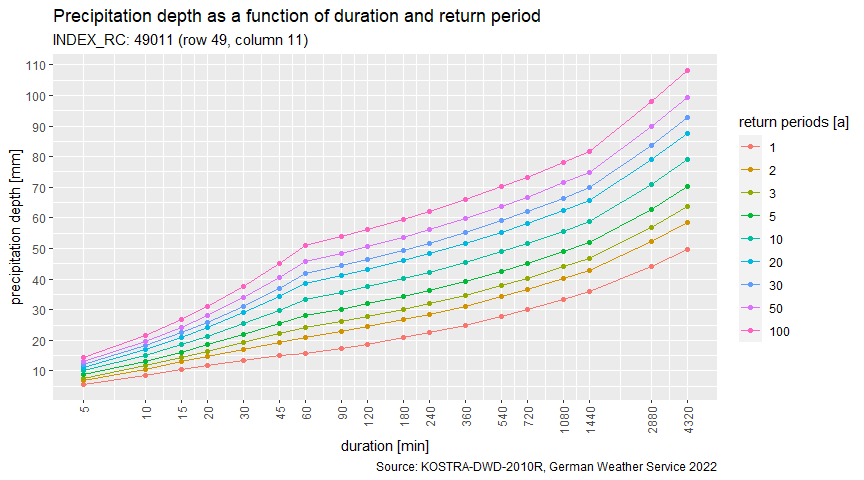
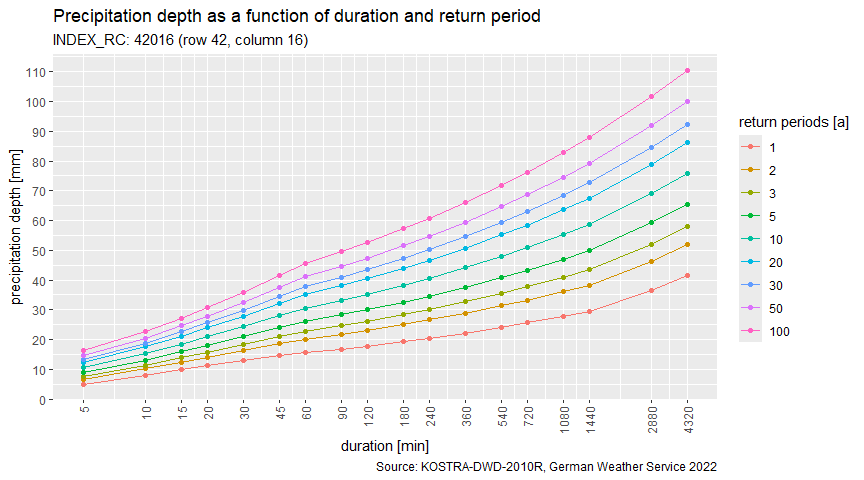
doc(*): index
fixes #58

diff --git a/README.md b/README.md
@@ -48,7 +48,7 @@ and load the package via
 
 ``` r
 library(kostra2010R)
-#> 0.11.3
+#> 0.12.1
 ```
 
 ## Getting started
@@ -62,8 +62,8 @@ used to generate the necessary “INDEX_RC” field.
 
 ``` r
 # Generate "INDEX_RC" based on row and column information.
-idx_build(row = 49, col = 11)
-#> [1] "49011"
+idx_build(row = 42, col = 16)
+#> [1] "42016"
 ```
 
 If you wanted to check whether this constructed “INDEX_RC” field is
@@ -73,7 +73,7 @@ function.
 
 ``` r
 # Is the following "INDEX_RC" entry present in the dataset?
-idx_exists("49011")
+idx_exists("42016")
 #> [1] TRUE
 ```
 
@@ -115,9 +115,9 @@ p3
 #> Geometry set for 1 feature 
 #> Geometry type: POINT
 #> Dimension:     XY
-#> Bounding box:  xmin: 6.784486 ymin: 51.23912 xmax: 6.784486 ymax: 51.23912
+#> Bounding box:  xmin: 6.784487 ymin: 51.23912 xmax: 6.784487 ymax: 51.23912
 #> Geodetic CRS:  WGS 84
-#> POINT (6.784486 51.23912)
+#> POINT (6.784487 51.23912)
 
 p4 <- get_centroid("Freiburg im Breisgau")
 p4
@@ -164,43 +164,43 @@ specified.
 ``` r
 # Build a tibble containing statistical precipitation depths as a function of 
 # duration and return periods for the grid cell specified.
-kostra <- get_stats("49011")
+stats <- get_stats("42016")
 
-kostra
+stats
 #> # A tibble: 18 × 12
 #>    D_min D_hour D_day HN_001A HN_002A HN_003A HN_005A HN_010A HN_020A HN_030A
 #>    <dbl>  <dbl> <dbl>   <dbl>   <dbl>   <dbl>   <dbl>   <dbl>   <dbl>   <dbl>
-#>  1     5   NA      NA     5.6     6.9     7.7     8.7    10      11.3    12.1
-#>  2    10   NA      NA     8.6    10.6    11.7    13.1    15.1    17.1    18.2
-#>  3    15   NA      NA    10.5    13      14.4    16.2    18.6    21.1    22.5
-#>  4    20   NA      NA    11.8    14.7    16.4    18.5    21.4    24.3    25.9
-#>  5    30   NA      NA    13.5    17.1    19.2    21.9    25.5    29.1    31.2
-#>  6    45   NA      NA    14.9    19.4    22.1    25.4    29.9    34.4    37.1
-#>  7    60    1      NA    15.7    21      24.1    28      33.3    38.7    41.8
-#>  8    90    1.5    NA    17.4    22.9    26.2    30.2    35.7    41.2    44.4
-#>  9   120    2      NA    18.8    24.4    27.7    31.9    37.5    43.1    46.4
-#> 10   180    3      NA    20.9    26.7    30.1    34.4    40.2    46      49.4
-#> 11   240    4      NA    22.5    28.5    32      36.4    42.3    48.3    51.8
-#> 12   360    6      NA    25      31.2    34.8    39.3    45.5    51.7    55.3
-#> 13   540    9      NA    27.8    34.2    37.9    42.6    49      55.3    59.1
-#> 14   720   12      NA    30      36.5    40.3    45.1    51.6    58.2    62  
-#> 15  1080   18      NA    33.3    40.1    44      49      55.7    62.5    66.4
-#> 16  1440   24       1    35.9    42.8    46.8    51.9    58.8    65.8    69.8
-#> 17  2880   48       2    44.1    52.2    57      62.9    71      79.1    83.8
-#> 18  4320   72       3    49.8    58.6    63.7    70.2    79      87.7    92.9
+#>  1     5   NA      NA     4.9     6.6     7.6     8.9    10.6    12.3    13.3
+#>  2    10   NA      NA     7.9    10.1    11.4    13.1    15.3    17.5    18.8
+#>  3    15   NA      NA     9.8    12.4    14      15.9    18.5    21.1    22.7
+#>  4    20   NA      NA    11.2    14.1    15.8    18      20.9    23.9    25.6
+#>  5    30   NA      NA    13      16.4    18.4    21      24.4    27.9    29.9
+#>  6    45   NA      NA    14.6    18.6    21      23.9    28      32      34.4
+#>  7    60    1      NA    15.5    20      22.7    26      30.6    35.1    37.7
+#>  8    90    1.5    NA    16.8    21.8    24.6    28.3    33.2    38.1    41  
+#>  9   120    2      NA    17.8    23.1    26.1    30      35.2    40.5    43.5
+#> 10   180    3      NA    19.3    25      28.4    32.6    38.3    44      47.3
+#> 11   240    4      NA    20.5    26.6    30.1    34.6    40.6    46.7    50.2
+#> 12   360    6      NA    22.2    28.8    32.7    37.6    44.1    50.7    54.6
+#> 13   540    9      NA    24.1    31.3    35.5    40.8    48      55.2    59.4
+#> 14   720   12      NA    25.6    33.2    37.7    43.3    50.9    58.5    63  
+#> 15  1080   18      NA    27.7    36      40.9    47      55.3    63.6    68.5
+#> 16  1440   24       1    29.4    38.2    43.4    49.9    58.7    67.5    72.7
+#> 17  2880   48       2    36.5    46.3    52      59.3    69.1    78.9    84.6
+#> 18  4320   72       3    41.4    51.8    57.9    65.5    75.9    86.3    92.4
 #> # ℹ 2 more variables: HN_050A <dbl>, HN_100A <dbl>
 ```
 
 Some describing attributes have been assigned to the tibble.
 
 ``` r
-attr(kostra, "id")
-#> [1] "49011"
-attr(kostra, "period")
+attr(stats, "id")
+#> [1] "42016"
+attr(stats, "period")
 #> [1] "1951-01-01 +01" "2010-12-31 +01"
-attr(kostra, "returnperiods_a")
+attr(stats, "returnperiods_a")
 #> [1]   1   2   3   5  10  20  30  50 100
-attr(kostra, "source")
+attr(stats, "source")
 #> [1] "KOSTRA-DWD-2010R"
 ```
 
@@ -214,8 +214,8 @@ function helping you out.
 ``` r
 # So we are interested in the rainfall amount [mm] for an event lasting 240 min 
 # with a return period of 100 a.
-get_depth(kostra, d = 240, tn = 100)
-#> 62.1 [mm]
+get_depth(stats, d = 240, tn = 100)
+#> 60.7 [mm]
 ```
 
 In order to respect statistical uncertainties, as proposed in Malitz &
@@ -225,9 +225,9 @@ around the single value above.
 
 ``` r
 # Same data, but with uncertainties considered.
-get_depth(kostra, d = 240, tn = 100, uc = TRUE)
+get_depth(stats, d = 240, tn = 100, uc = TRUE)
 #> Units: [mm]
-#> [1] 49.7 74.5
+#> [1] 48.6 72.8
 ```
 
 If you need precipitation yield values \[l/(s\*ha)\] instead of
@@ -248,8 +248,8 @@ Finally, we want to determine the return period according to the dataset
 for a precipitation depth and duration given.
 
 ``` r
-# Let's assume we measured 72.3 mm in 24 h.
-get_returnp(kostra, hn = 72.3, d = 1440)
+# Let's assume we measured 75.2 mm in 24 h.
+get_returnp(stats, hn = 75.2, d = 1440)
 #> Units: [a]
 #> [1] 30 50
 ```
@@ -262,21 +262,21 @@ The following edge cases are to be mentioned:
 
 ``` r
 # 1) In case a class boundary is hit, the return period is replicated.
-get_returnp(kostra, hn = 42.8, d = 1440)
+get_returnp(stats, hn = 38.2, d = 1440)
 #> Units: [a]
 #> [1] 2 2
 ```
 
 ``` r
 # 2) In case the return period tn is smaller than 1, interval opens with 0.
-get_returnp(kostra, hn = 30.2, d = 1440)
+get_returnp(stats, hn = 26.4, d = 1440)
 #> Units: [a]
 #> [1] 0 1
 ```
 
 ``` r
 # 3) In case the return period tn is larger than 100, interval closes with Inf.
-get_returnp(kostra, hn = 86.3, d = 1440)
+get_returnp(stats, hn = 92.8, d = 1440)
 #> Units: [a]
 #> [1] 100 Inf
 ```
@@ -289,8 +289,8 @@ using linear interpolation between adjacent nodes:
 
 ``` r
 # Using the same example as above, previously resulting in 30 a < tn < 50 a.
-get_returnp(kostra, hn = 72.3, d = 1440, interpolate = TRUE)
-#> 39.9 [a]
+get_returnp(stats, hn = 75.2, d = 1440, interpolate = TRUE)
+#> 37.7 [a]
 ```
 
 ### Return period extrapolation
@@ -301,36 +301,36 @@ precipitation depths for all duration levels.
 
 ``` r
 # Output in a separate tibble to not mix up applied methods.
-pen <- calc_pen(kostra) 
+pen <- calc_pen(stats) 
 
 pen
 #> # A tibble: 18 × 9
 #>    D_min D_hour D_day HN_200A HN_500A HN_1000A HN_2000A HN_5000A HN_10000A
 #>    <dbl>  <dbl> <dbl>   <dbl>   <dbl>    <dbl>    <dbl>    <dbl>     <dbl>
-#>  1     5   NA      NA    19.1    21.6     23.4     25.2     27.7      29.5
-#>  2    10   NA      NA    28.7    32.3     35       37.7     41.4      44.1
-#>  3    15   NA      NA    35.6    40.1     43.5     46.9     51.5      54.9
-#>  4    20   NA      NA    41.1    46.3     50.3     54.3     59.6      63.5
-#>  5    30   NA      NA    49.9    56.5     61.4     66.4     72.9      77.9
-#>  6    45   NA      NA    60.1    68.2     74.3     80.4     88.5      94.6
-#>  7    60    1      NA    68.3    77.7     84.7     91.8    101.      108. 
-#>  8    90    1.5    NA    72.1    81.8     89.2     96.6    106.      114. 
-#>  9   120    2      NA    75      85.1     92.7    100.     110.      118  
-#> 10   180    3      NA    79.5    89.9     97.9    106.     116.      124. 
-#> 11   240    4      NA    82.7    93.5    102.     110.     121.      129. 
-#> 12   360    6      NA    87.7    99      108.     116.     127.      136. 
-#> 13   540    9      NA    93     105.     114.     123.     134.      143. 
-#> 14   720   12      NA    97.1   109.     118.     128.     140.      149. 
-#> 15  1080   18      NA   103.    116      126.     135.     148.      158. 
-#> 16  1440   24       1   108.    121.     131.     141      154.      164  
-#> 17  2880   48       2   129.    145.     156.     168.     184.      195. 
-#> 18  4320   72       3   142.    159.     172.     185.     202.      215.
+#>  1     5   NA      NA    21.7    24.7     27       29.2     32.2      34.5
+#>  2    10   NA      NA    30.3    34.3     37.3     40.3     44.3      47.4
+#>  3    15   NA      NA    36.2    41       44.5     48.1     52.9      56.5
+#>  4    20   NA      NA    40.9    46.2     50.2     54.2     59.6      63.6
+#>  5    30   NA      NA    47.8    54       58.8     63.5     69.7      74.5
+#>  6    45   NA      NA    55.2    62.5     67.9     73.4     80.7      86.2
+#>  7    60    1      NA    60.9    69       75.1     81.2     89.4      95.5
+#>  8    90    1.5    NA    66.2    75       81.7     88.4     97.2     104. 
+#>  9   120    2      NA    70.2    79.6     86.7     93.8    103.      110. 
+#> 10   180    3      NA    76.4    86.6     94.3    102      112.      120. 
+#> 11   240    4      NA    81      91.8    100      108.     119       127. 
+#> 12   360    6      NA    88.3   100.     109      118.     130.      139. 
+#> 13   540    9      NA    95.9   109.     118.     128.     141.      151. 
+#> 14   720   12      NA   102.    115.     126.     136.     150.      160. 
+#> 15  1080   18      NA   111.    126.     137.     148      163.      174  
+#> 16  1440   24       1   118.    133.     145.     157.     173.      185. 
+#> 17  2880   48       2   135.    153      166.     180.     198.      211  
+#> 18  4320   72       3   147.    166.     180.     194.     213.      228.
 ```
 
 ``` r
 # Former attribute names are preserved.
 attr(pen, "id")
-#> [1] "49011"
+#> [1] "42016"
 attr(pen, "returnperiods_a")
 #> [1]   200   500  1000  2000  5000 10000
 ```
@@ -343,22 +343,22 @@ implemented.
 
 ``` r
 # Euler Type II design storm with a duration of 60 minutes and a return period of 100 a.
-xts <- calc_designstorm(kostra, d = 60, tn = 100, type = "EulerII")
+xts <- calc_designstorm(stats, d = 60, tn = 100, type = "EulerII")
 
 xts
-#>                     [,1]
-#> 2000-01-01 00:00:00  4.1
-#> 2000-01-01 00:05:00  5.2
-#> 2000-01-01 00:10:00  7.2
-#> 2000-01-01 00:15:00 14.4
-#> 2000-01-01 00:20:00  3.3
-#> 2000-01-01 00:25:00  3.3
-#> 2000-01-01 00:30:00  2.5
-#> 2000-01-01 00:35:00  2.5
-#> 2000-01-01 00:40:00  2.5
-#> 2000-01-01 00:45:00  2.0
-#> 2000-01-01 00:50:00  2.0
-#> 2000-01-01 00:55:00  2.0
+#>                      [,1]
+#> 2000-01-01 00:00:00  3.50
+#> 2000-01-01 00:05:00  4.50
+#> 2000-01-01 00:10:00  6.50
+#> 2000-01-01 00:15:00 16.20
+#> 2000-01-01 00:20:00  2.60
+#> 2000-01-01 00:25:00  2.60
+#> 2000-01-01 00:30:00  1.83
+#> 2000-01-01 00:35:00  1.83
+#> 2000-01-01 00:40:00  1.83
+#> 2000-01-01 00:45:00  1.40
+#> 2000-01-01 00:50:00  1.40
+#> 2000-01-01 00:55:00  1.40
 ```
 
 ### Further utilization
@@ -367,7 +367,7 @@ Data can additionally be visualized as intensity-duration-frequency
 curves using `plot_idf()`, underpinned by `{ggplot2}` …
 
 ``` r
-plot_idf(kostra, log10 = TRUE)
+plot_idf(stats, log10 = TRUE)
 ```
 
 <img src="man/figures/README-unnamed-chunk-21-1.png" width="100%" />

diff --git a/NEWS.md b/NEWS.md
@@ -1,4 +1,4 @@
-# version 0.12.0
+# version 0.12.1
 
 ## features
 
